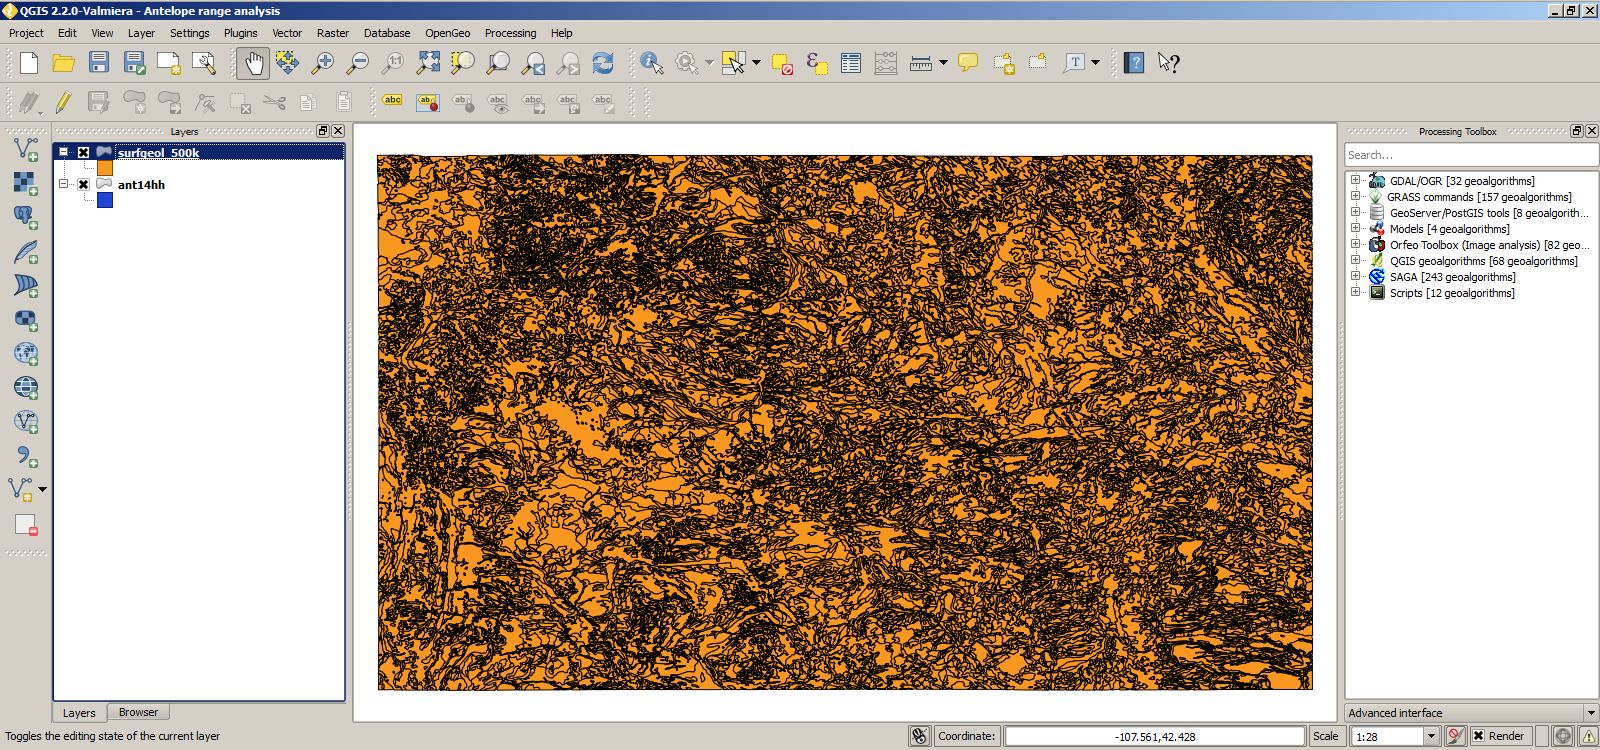
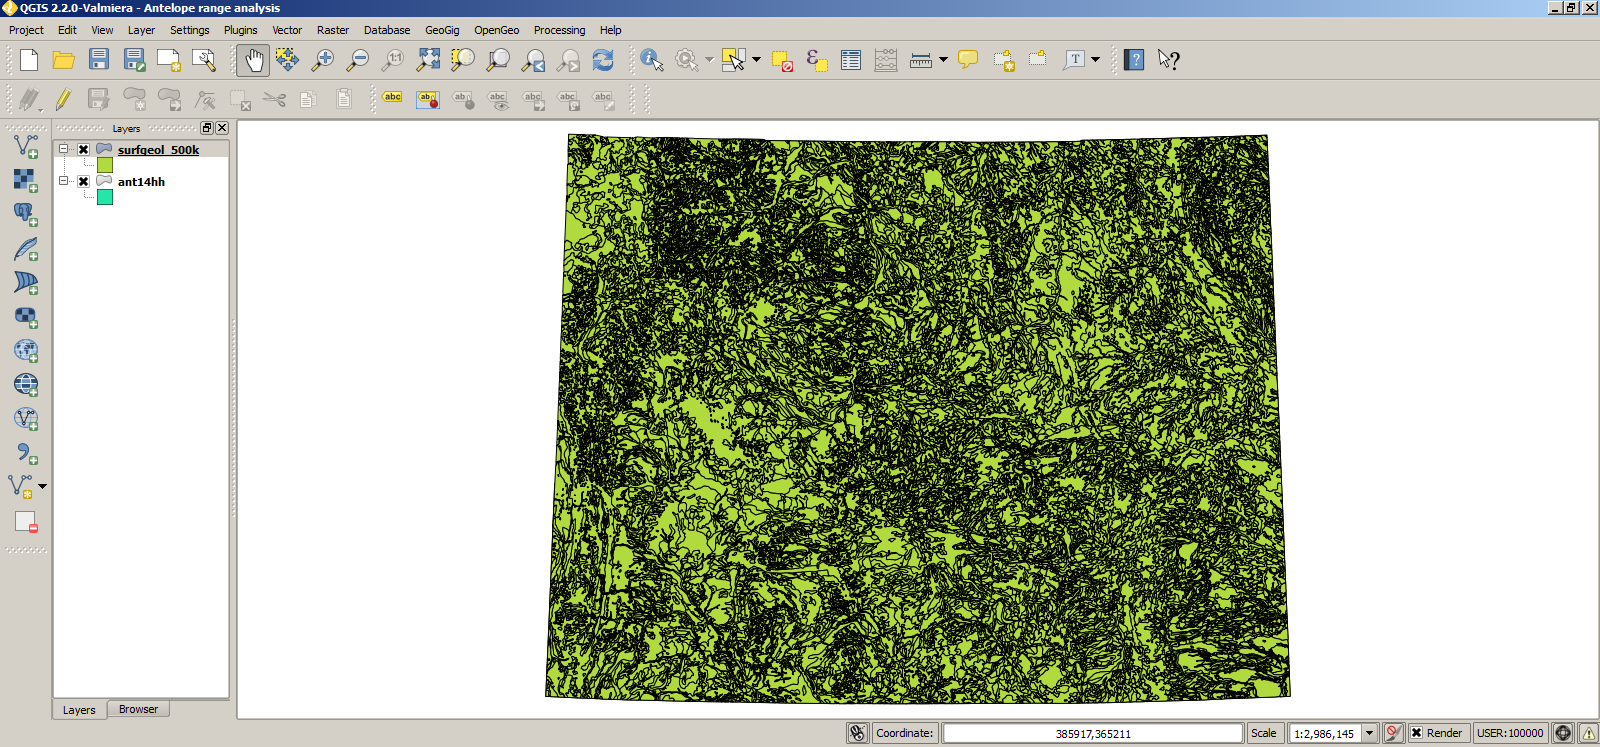
change workshop dir and other fixes

diff --git a/workshops/qgis/doc/source/processing/zonal_stats.rst b/workshops/qgis/doc/source/processing/zonal_stats.rst
@@ -7,7 +7,7 @@ Now that we have a baseline to work with, we can calculate statistics on the geo
 
 #. The attribute table for the new **Frequency_analysis_table** will show the geological breakdown for each range. This is useful data, but since we are looking for correlations between ranges geology, we actually want to use an aggregation of geological types for all areas with the same **RANGE** value. In other words, we want to see, for example, if all the yearlong ranges are characterised by a particular geological type.
 
-#. Let's keep the layer in our results director: right click and save the layer as ``workshop/results/surficial_geology_ranges.shp``. Make sure to check the :guilabel:`Add saved file to map` option to automatically load this layer into our project.
+#. Let's keep the layer in our results director: right click and save the layer as ``qgis/results/surficial_geology_ranges.shp``. Make sure to check the :guilabel:`Add saved file to map` option to automatically load this layer into our project.
 
 #. Add a new **Surficial geology** sub-group to the **Results** group.
 
@@ -27,7 +27,7 @@ Now that we have a baseline to work with, we can calculate statistics on the geo
 
 #. Run the **Singleparts to multipart** process.
 
-#. Now run the **Frequency Analysis** process again, but this time using the vector input as the new **Output layer**. Set the table output to be ``workshop/results/surficial_geology_ranges.csv``.
+#. Now run the **Frequency Analysis** process again, but this time using the vector input as the new **Output layer**. Set the table output to be ``qgis/results/surficial_geology_ranges.csv``.
 
 #. Rename the output table to **Aggregate**. This layer provides a data analyst with detailed information required to determine whether there is a corrolation between geology types and how antelope use the land during different seasons. Some initial observations are that only the ``CRUWIN`` range is characterised by a geology type other than ``8`` (``ri``), although we can also see that antelope tend not to populate areas with type ``3`` (``Ri``). It is entirely possible that a statistical analysis will not find any coorelation between geology and antelope ranges!
 

diff --git a/workshops/qgis/doc/source/processing/rasterisation.rst b/workshops/qgis/doc/source/processing/rasterisation.rst
@@ -45,7 +45,7 @@ If we proceed with the data configured as it currently is, the **Surficial geolo
 
    .. warning:: There is a **Create equivalent numerical field** process in the :menuselection:`QGIS geoalgorithms --> Vector table tools` cateogry. Functionally, the two will create equivalent output layers; however, only the process in the :menuselection:`Scripts --> Vector` category will create the reference table.
 
-#. Run the process, saving the results to ``workshop\reference\surfical_geology_lookup.csv``.
+#. Run the process, saving the results to ``qgis\reference\surfical_geology_lookup.csv``.
 
 #. Run the process **Rasterize** with the inputs **Equivalent_numerical_field_layer** and **NUM_FIELD**. We can keep the default size of 3000 by 3000 pixels. The new raster layer will appear in the layer list.
 
@@ -53,7 +53,7 @@ If we proceed with the data configured as it currently is, the **Surficial geolo
 
       **Suficial geology** after conversion to a raster
 
-#. Clip the new **Output layer** to the **Area of interest** layer using the **Clip raster by mask layer** algorithm from the processing toolbox. Make sure to use a :guilabel:`Nodata` value of :kbd:`-32768` and set :guilabel:`Keep resolution of output raster` to :kbd:`Yes`. Set the output file name to be ``workshop\temp\surfgeol_500k.tif``.
+#. Clip the new **Output layer** to the **Area of interest** layer using the **Clip raster by mask layer** algorithm from the processing toolbox. Make sure to use a :guilabel:`Nodata` value of :kbd:`-32768` and set :guilabel:`Keep resolution of output raster` to :kbd:`Yes`. Set the output file name to be ``qgis\temp\surfgeol_500k.tif``.
 
    .. note:: We are using the ``temp`` directory to store useful files that we will use during the workshop, but which are not actual data sets.
 

diff --git a/workshops/qgis/doc/source/basics/data.rst b/workshops/qgis/doc/source/basics/data.rst
@@ -23,15 +23,15 @@ We can now start adding some of our data to the *Antelope range analysis* projec
 
    .. note:: QGIS will randomly assign a colour to the vector layer so what you see will probably not match the screenshot exactly.
 
-#. Repeat the process for the ``surfgeol_500k.shp`` file. After adding this layer, however, you will not see any new data appear in the main QGIS panel.
+#. Repeat the process for the ``surfgeol_500k.shp`` file (not ``surfgeol_500k.zip``). After adding this layer, however, you may not see any new data appear in the main QGIS panel.
 
-#. Right click on the **surfgeol_500k** item in the list of layers and select :guilabel:`Zoom to Layer Extent`. The view should now display this layer.
+#. Right click on the **surfgeol_500k** item in the list of layers and select :guilabel:`Zoom to Layer Extent`. The view should now display this layer if it didn't already.
 
    .. figure:: images/surfgeol_500k.png
 
       Surficial geology layer
 
-Although both layers contain data for the state of Wyoming, QGIS has not been able to locate them at the same location on our map. This is because the two layers are using different :term:`coordinate reference system (CRS) <CRS>` to record the data. This is a common problem when working with data from different sources and although QGIS can often render the data correctly, having data sets in multiple CRSs will lead to problems when we begin our processing tasks.
+Both layers contain data for the state of Wyoming but each layer uses a different :term:`coordinate reference system (CRS) <CRS>` to record the data. Although QGIS can often render the data correctly, having data sets in multiple CRSs will lead to problems when we begin our processing tasks.
 
 .. |vector| image:: images/vector.png
             :class: inline

diff --git a/workshops/qgis/doc/source/processing/statistics.rst b/workshops/qgis/doc/source/processing/statistics.rst
@@ -20,7 +20,7 @@ We will be using a new process named **Frequency Analysis** to calculate the bre
 
 #. Keep the default outputs and execute the script.
 
-#. Set the :guilabel:`Frequency_analysis_table` output to be ``workshop\reference\surficial_geology_baseline.csv``.
+#. Set the :guilabel:`Frequency_analysis_table` output to be ``qgis\reference\surficial_geology_baseline.csv``.
 
    .. figure:: images/frequency_analysis_aoi.png
 
@@ -32,7 +32,7 @@ We will be using a new process named **Frequency Analysis** to calculate the bre
 
 #. Click the feature with the identify tool. The results will show that approximately 35% of the land is covered by geology type ``8``, which can be cross-referenced in our automatically-generated **Surficial geology (RECLASS lookup)** table and identified as type ``ri`` (defined as "residuum mixed with alluvium, eolian, slopewash, grus, and/or bedrock outcrops").
 
-#. Click :guilabel:`Run`.
+   .. note:: It is possible that when you run the script, the ``ri`` geology type will be encoded with a different number instead of ``8``.
 
 #. Open the attribute table for **Frequency_analysis_table**. Here we can see the complete breakdown of the geology into the various types; of note are: ``1`` (``sci``) at 20%; ``3`` (``Ri``) at 12%; and ``5`` (``ai``) at 8%.
 
@@ -44,4 +44,4 @@ We will be using a new process named **Frequency Analysis** to calculate the bre
 
 #. Delete the **Frequency_analysis_layer** from our project.
 
-#. Rename the **Frequency_analysis_table** to **Surficial geology (frequency analysis)**
+#. Rename the **Frequency_analysis_table** to **Baseline**.

diff --git a/workshops/qgis/doc/source/basics/crs.rst b/workshops/qgis/doc/source/basics/crs.rst
@@ -27,19 +27,21 @@ Before we continue with adding more data, we will want to see how to standardise
 
    .. note:: You can use the filter box to quickly find the CRS that you are looking for.
 
-#. Set the new file name to ``workshop\data\ant14hh.shp``.
+#. Set the new file name to ``qgis\data\ant14hh.shp``.
 
-   .. note:: We will keep all the correctly projected data in the ``workshop\data`` directory.
+   .. note:: We will keep all the correctly projected data in the ``qgis\data`` directory.
 
 #. Click :guilabel:`OK` to save the new file.
 
-#. Repeat this process for the **surfgeol_500k** layer if necessary.
+   .. note:: It can take some time for QGIS to convert large data sets to a new CRS.
 
-   .. note:: If the layer is already in the **EPSG:4267** CRS, then you can simply copy all the ``surfgeol_500k`` files to the same ``workshop\data`` directory.
+#. Right click on the layer in the list select :menuselect:`Set Project CRS from Layer`.
+
+#. Repeat this process for the **surfgeol_500k** layer if necessary.
 
 #. Remove each of the current layers in the project by right clicking them and selecting :guilabel:`Remove`.
 
-#. Add the new layers from the ``workshop\data`` directory to the project.
+#. Add the new layers from the ``qgis\data`` directory to the project.
 
 #. Drag and drop the layers in the list so that the **ant14hh** layer is first. You should now see that the two layers line up on the map.
 

diff --git a/workshops/qgis/doc/source/introduction/problem.rst b/workshops/qgis/doc/source/introduction/problem.rst
@@ -28,10 +28,10 @@ In total, for this workshop, we will need the following files:
 Preparation
 ^^^^^^^^^^^
 
-#. Create a new ``workshop`` directory.
+#. Create a new ``qgis`` directory where we will hold all of our data and project files.
 
-#. Create ``data``, ``downloads``, ``reference``, ``results`` and ``temp`` directories inside ``workshop``.
+#. Create ``data``, ``downloads``, ``reference``, ``results`` and ``temp`` directories inside ``qgis``.
 
-#. Download the data files into ``workshop\downloads``.
+#. Download the data files into ``qgis\downloads``.
 
-#. Most of the files you download can be used directly in QGIS. However, the ``surgeol_500k.zip`` and ``soil500k.zip`` files have the data inside an extra sub-directory, so unzip them both inside ``workshop\downloads``. We also need to unzip the ``gaplandcov_wy.zip`` archive into the downloads directory.
+#. Most of the files you download can be used directly in QGIS. However, the ``surgeol_500k.zip`` and ``soil500k.zip`` files have the data inside an extra sub-directory, so unzip them both inside ``qgis\downloads``. We also need to unzip the ``gaplandcov_wy.zip`` archive into the downloads directory.

diff --git a/workshops/qgis/doc/source/basics/project.rst b/workshops/qgis/doc/source/basics/project.rst
@@ -33,11 +33,13 @@ Our first step will be to launch QGIS and create a new project file that we will
 
       Enabling the Processing Toolbox in the QGIS menu
 
-#. Although we haven't started working with any data yet, we can save our project file now by clicking :menuselection:`Project --> Save`. Give the file the name ``antelopes.qgs`` and save it in the ``workshop`` directory that we created earlier.
+#. Although we haven't started working with any data yet, we can save our project file now by clicking :menuselection:`Project --> Save`. Give the file the name ``antelopes.qgs`` and save it in the ``qgis`` directory that we created earlier.
 
    .. figure:: images/project_menu.png
 
       Project menu
+
+   .. warning:: To avoid losing work, it is strongly recommended that you save your project frequently. During this workshop, aim to save your project at the end of each exercise.
 
 #. QGIS projects contain references to the data we are working with, how the data is displayed and other configuration options. If you want to see some of these options, you can open the project settings by clicking :menuselection:`Project --> Properties`.
 

diff --git a/workshops/qgis/doc/source/processing/clip.rst b/workshops/qgis/doc/source/processing/clip.rst
@@ -20,7 +20,7 @@ First, let's throw out some features from the **Surficial geology** layer.
 
 #. Set :guilabel:`Clip layer` to **Area of interest**.
 
-#. Set the output to be a new file named ``workshop\data\surfgeol_500k_clipped.shp``.
+#. Set the output to be a new file named ``qgis\data\surfgeol_500k_clipped.shp``.
 
 #. Check the :guilabel:`Add result to canvas` box.
 
@@ -53,7 +53,7 @@ Next, let's clip the **Digital elevation model** layer since it too covers Wyomi
 
 #. Set the :guilabel:`Input file` to **Digital elevation model**.
 
-#. Set the :guilabel:`Output file` to ``workshop\data\dem_90m_clipped.tif``.
+#. Set the :guilabel:`Output file` to ``qgis\data\dem_90m_clipped.tif``.
 
 #. Set the :guilabel:`No data value` to :kbd:`-32768`.
 

diff --git a/workshops/qgis/doc/source/modeller/components.rst b/workshops/qgis/doc/source/modeller/components.rst
@@ -30,6 +30,6 @@ As outputs, we should will get a layer which has an extra **MAJ** attribute show
 
 Because we are starting from a raster, we will need to refer to the layer's metadata to understand the meaning of the different raster band values. In this case, the ``gaplandcov_wy.zip`` contains a file named ``gaplandcov_WY.img.vat.dbf``, which can be loaded into QGIS and which contains a description of each value, such as ``86`` meaning "cultivated cropland".
 
-#. Move ``gaplandcov_WY.img.vat.dbf`` to the ``workshop\reference`` directory.
+#. Move ``gaplandcov_WY.img.vat.dbf`` to the ``qgis\reference`` directory.
 
 #. Add the file to the project's **Reference** group and rename it :kbd:`Land cover (lookup)`.

diff --git a/workshops/qgis/doc/source/modeller/edit.rst b/workshops/qgis/doc/source/modeller/edit.rst
@@ -19,6 +19,6 @@ Without changing the inputs to our model, we can accomplish this same task by ad
 
       Adding a baseline calculation
 
-#. Run the model, but save the three outputs to files in the `workshop\results` directory just as we did for the analysis of the **Surficial geometries** layer. 
+#. Run the model, but save the three outputs to files in the ``qgis\results`` directory just as we did for the analysis of the **Surficial geometries** layer. 
    
-#. Move the new additions into the correct groups in our layer list.
+#. Move the new additions into a new **Landcover** sub-group in our **Results** list.

diff --git a/workshops/qgis/doc/source/basics/raster.rst b/workshops/qgis/doc/source/basics/raster.rst
@@ -3,9 +3,9 @@ Raster data
 
 #. We can add some raster data by clicking the |raster| icon next to the layer list.
 
-#. Select the ``dem_90m.zip`` file in the ``workshop\downloads`` directory.
+#. Select the ``dem_90m.zip`` file in the ``qgis\downloads`` directory.
 
-#. Save the file as ``dem_90m.tif`` in the ``workshop\data`` directory with the correct **EPSG:4267** CRS.
+#. Save the file as ``dem_90m.tif`` in the ``qgis\data`` directory with the correct **EPSG:4267** CRS.
 
 #. Remove the old file and add the new GeoTIFF to the project.
 

diff --git a/workshops/qgis/doc/source/processing/running.rst b/workshops/qgis/doc/source/processing/running.rst
@@ -16,7 +16,7 @@ Let's revisit the **Dissolve process** and change some of the input parameters t
 
    .. note:: We could have used the **Antelope ranges** as the input since the extents of both these layers are identical.
 
-#. Save the new file to ``workshop\data\area_of_interest.shp``. 
+#. Save the new file to ``qgis\data\area_of_interest.shp``. 
    
 #. Rename the layer :kbd:`Area of interest`.
 
